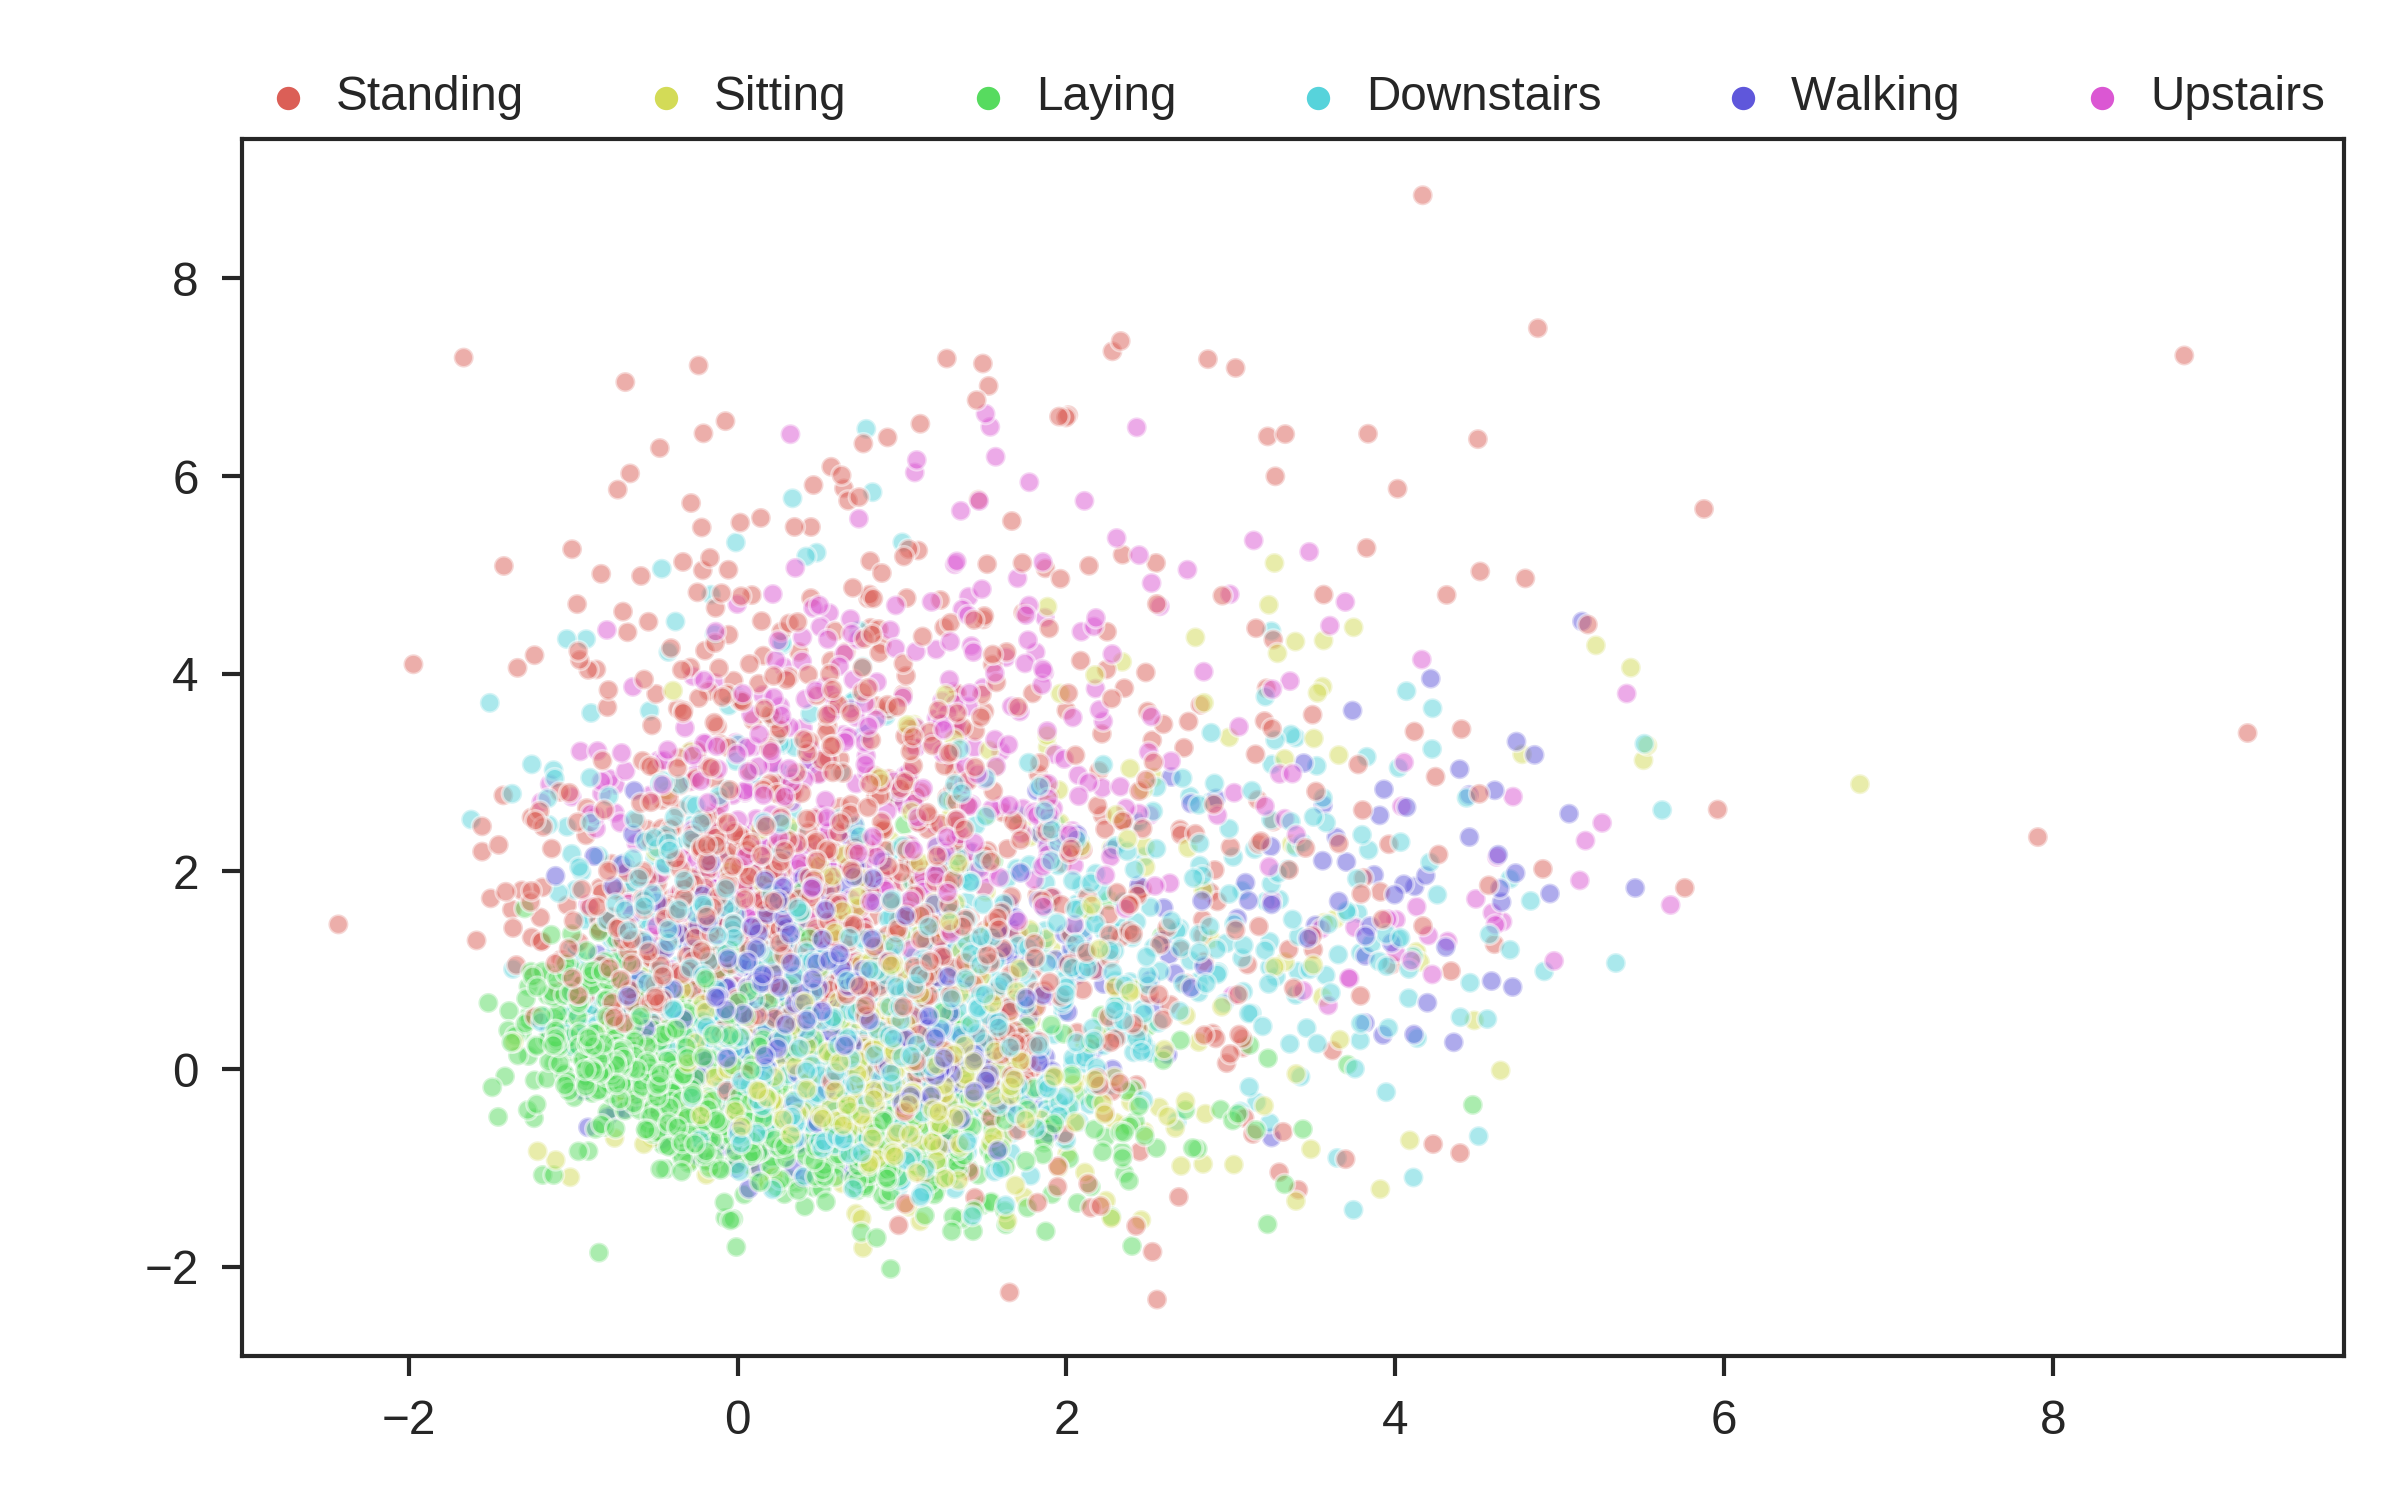
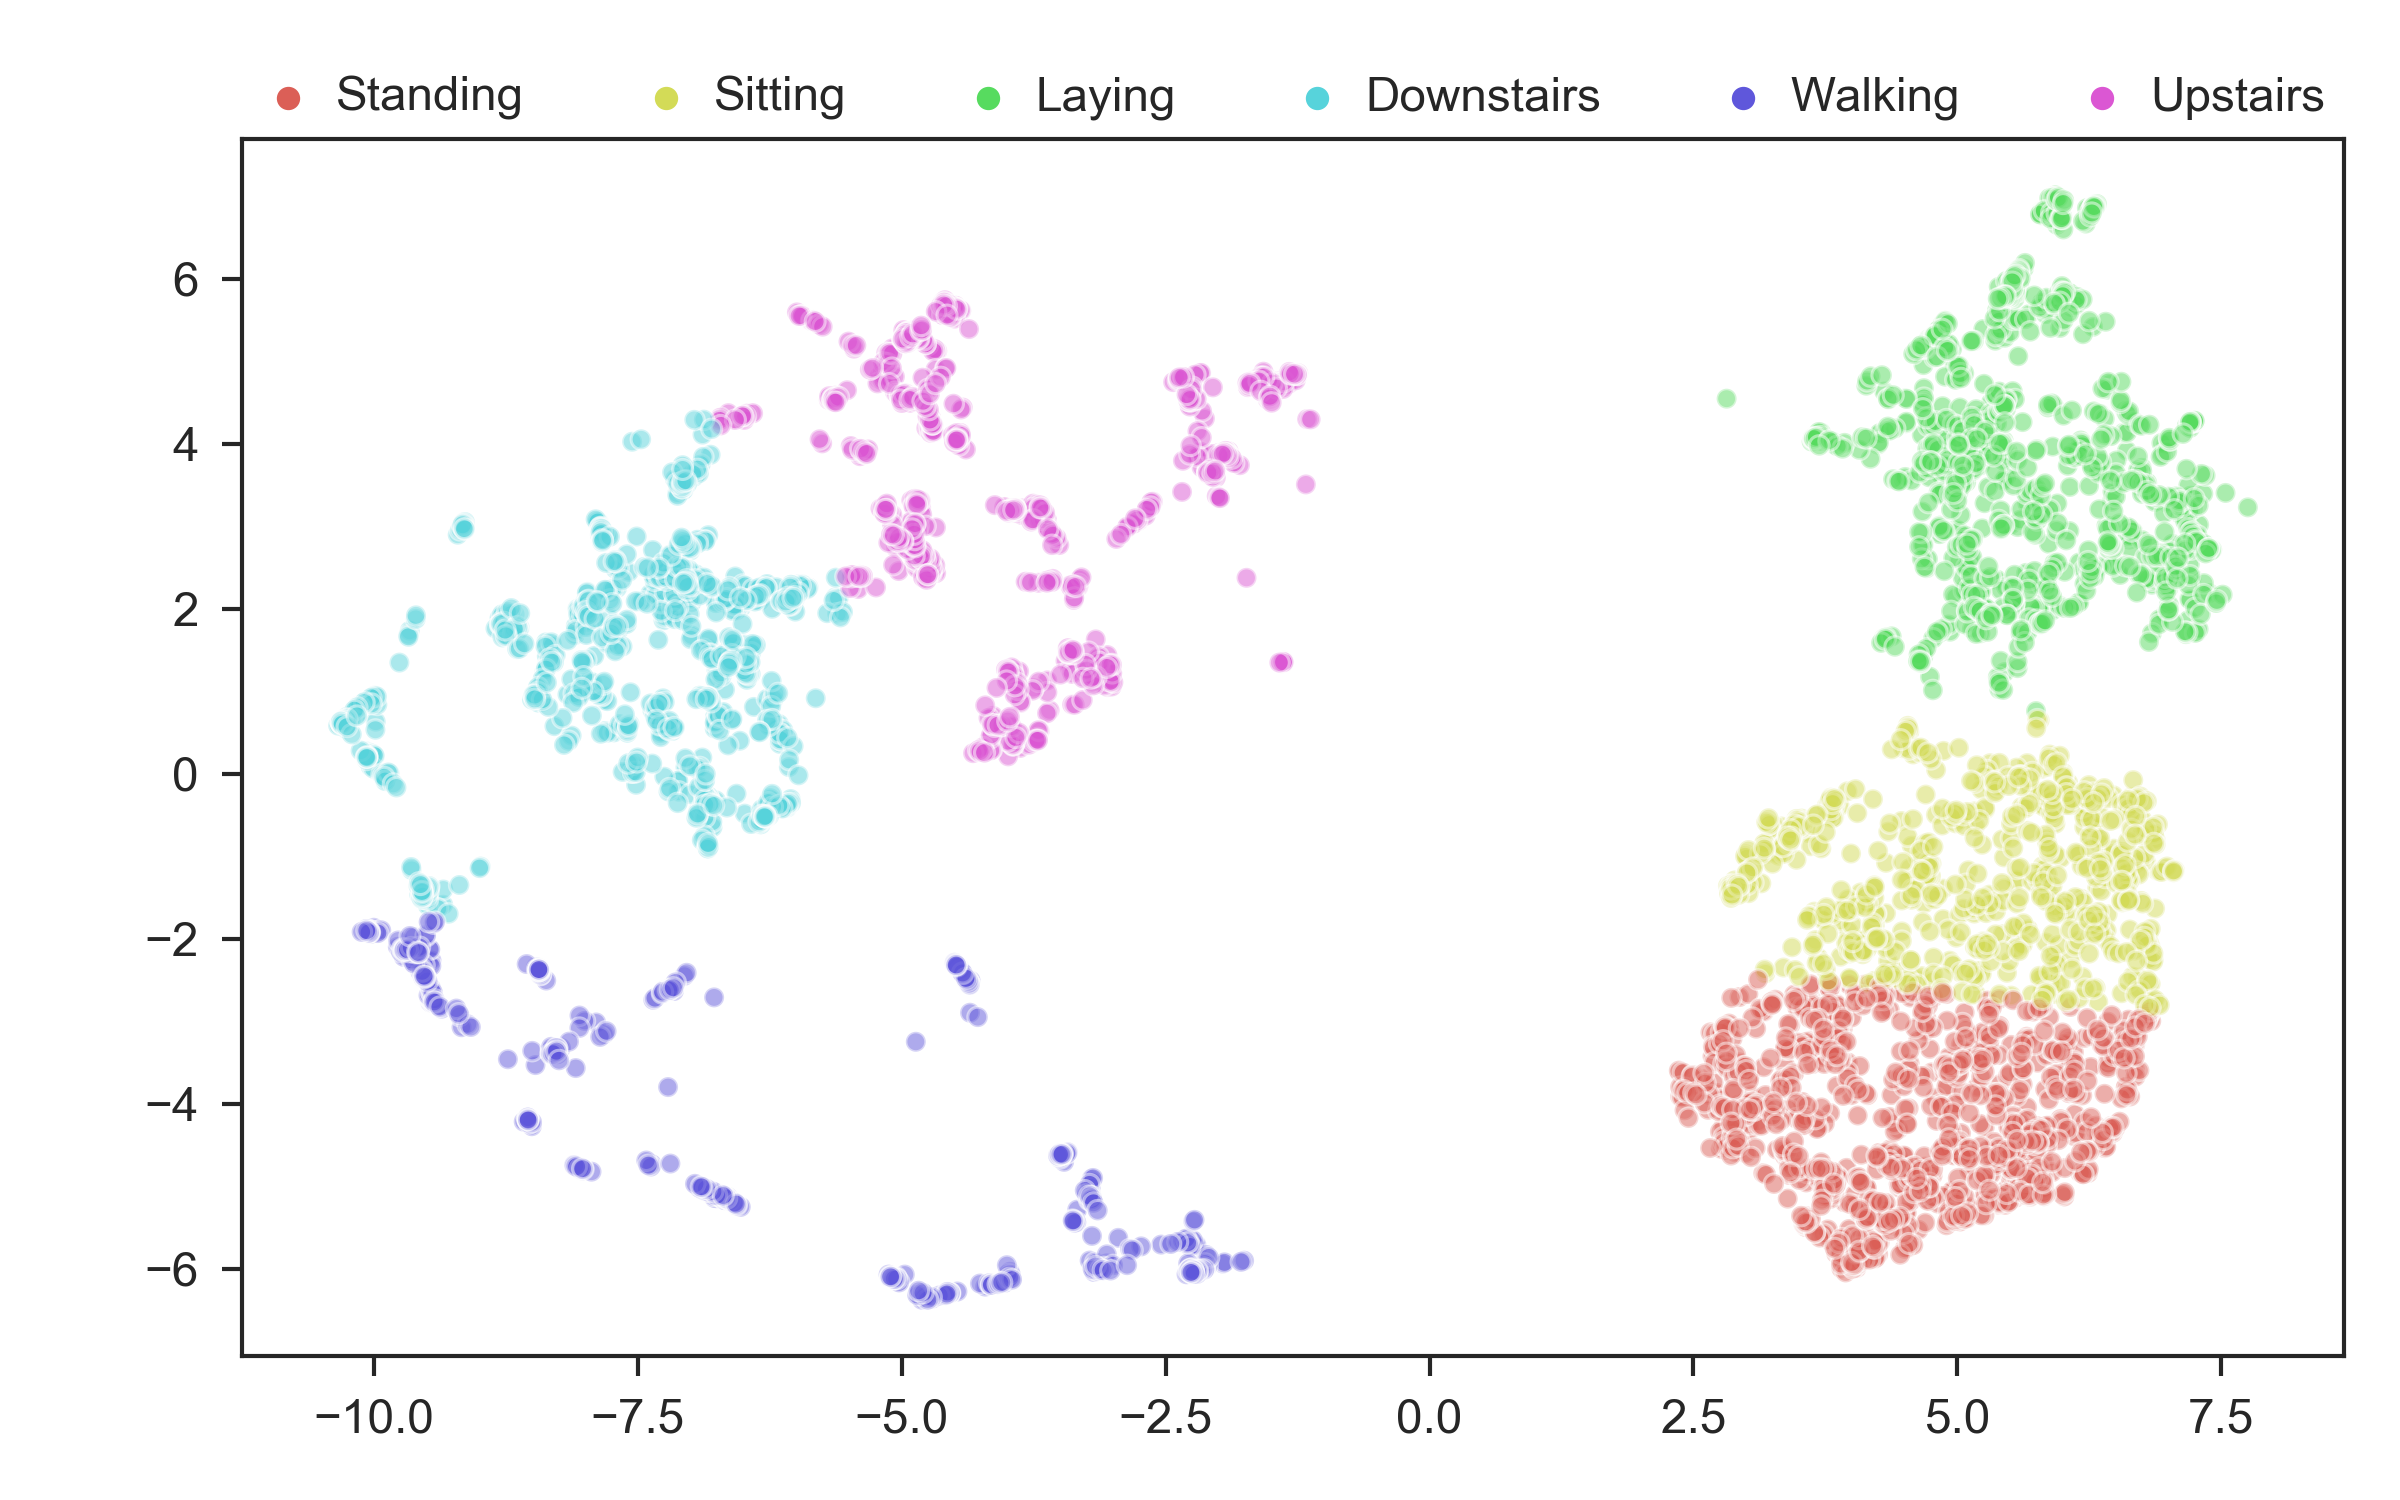
Fixing the assignment of the embedded manifold (hle). Previously this was being set to the autoencoder hidden layer, rather than the UMAP manifold. The only impact of this was in terms of visualization.

diff --git a/n2d/N2D.py b/n2d/N2D.py
@@ -84,11 +84,12 @@ class UmapGMM:
             covariance_type = 'full',
             n_components = nclust, random_state = random_state
         )
+        self.hle = None
 
     def predict(self, hl):
-        hle = self.manifoldInEmbedding.fit_transform(hl)
-        self.clusterManifold.fit(hle)
-        y_prob = self.clusterManifold.predict_proba(hle)
+        self.hle = self.manifoldInEmbedding.fit_transform(hl)
+        self.clusterManifold.fit(self.hle)
+        y_prob = self.clusterManifold.predict_proba(self.hle)
         y_pred = y_prob.argmax(1)
         return(np.asarray(y_pred))
 
@@ -148,6 +149,9 @@ class n2d:
         self.encoder = Model(inputs = self.autoencoder.Model.input, outputs = self.hidden)
         self.x = x
         self.nclust = nclust
+        self.preds = None
+        self.hle = None
+
 
 
     def preTrainEncoder(self,batch_size = 256, pretrain_epochs = 1000,
@@ -165,13 +169,9 @@ class n2d:
 
 
     def predict(self, manifoldLearner):
-
-
         hl = self.encoder.predict(self.x)
-        self.hle = hl
-
-        preds = manifoldLearner.predict(hl)
-        self.preds = preds
+        self.preds = manifoldLearner.predict(hl)
+        self.hle = manifoldLearner.hle
 
     def assess(self, y):
         y = np.asarray(y)

diff --git a/examples/main.py b/examples/main.py
@@ -56,13 +56,15 @@ class UmapSpectral:
     		random_state = random_state
     	)
 
+        self.hle = None
+
 
     def predict(self, hl):
         # obviously if you change the clustering method or the manifold learner
         # youll want to change the predict method too.
-        hle = self.manifoldInEmbedding.fit_transform(hl)
-        self.clusterManifold.fit(hle)
-        y_pred = self.clusterManifold.fit_predict(hle)
+        self.hle = self.manifoldInEmbedding.fit_transform(hl)
+        self.clusterManifold.fit(self.hle)
+        y_pred = self.clusterManifold.fit_predict(self.hle)
         return(y_pred)
 
 manifoldSC = UmapSpectral(6)
